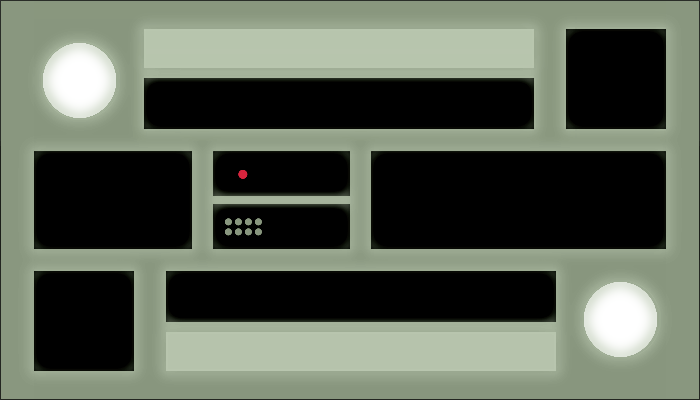
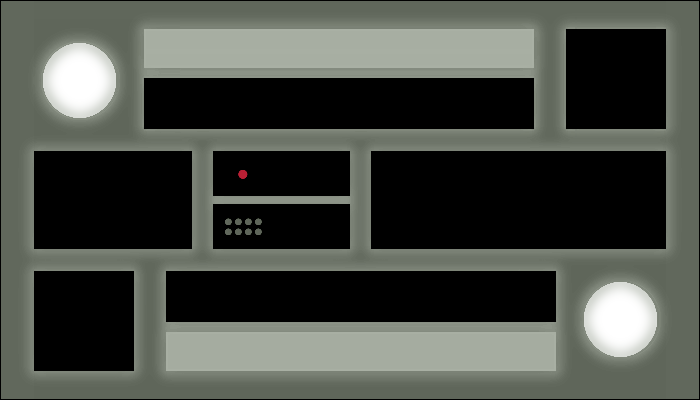
feat: dark mode for center panel

diff --git a/client/src/pages/game/components/center-panel.tsx b/client/src/pages/game/components/center-panel.tsx
@@ -11,6 +11,8 @@ interface CenterPanelProps {
 const CenterPanel: FC<CenterPanelProps> = ({ state, me }) => {
   const theme = useTheme()
   const op = me === 'host' ? 'guest' : 'host'
+  const tilePrefix = theme.palette.mode === 'dark' ? '/center/center_tile_' : '/tiles/'
+
   return (
     <Paper
       sx={{
@@ -119,7 +121,7 @@ const CenterPanel: FC<CenterPanelProps> = ({ state, me }) => {
             backgroundSize: 'cover',
             backgroundPosition: 'center',
             backgroundRepeat: 'no-repeat',
-            backgroundImage: `url(/tiles/${getWindCode(state[op].wind)}.png)`,
+            backgroundImage: `url(${tilePrefix}${getWindCode(state[op].wind)}.png)`,
             transform: 'rotate(180deg)',
           }}
         />
@@ -169,7 +171,7 @@ const CenterPanel: FC<CenterPanelProps> = ({ state, me }) => {
             backgroundSize: 'cover',
             backgroundPosition: 'center',
             backgroundRepeat: 'no-repeat',
-            backgroundImage: `url(/tiles/${getWindCode(state[me].wind)}.png)`,
+            backgroundImage: `url(${tilePrefix}${getWindCode(state[me].wind)}.png)`,
           }}
         />
 
